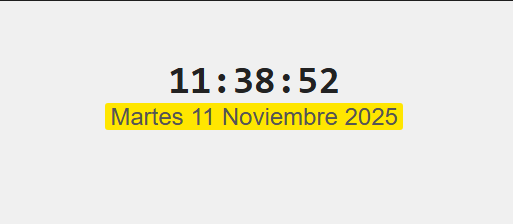
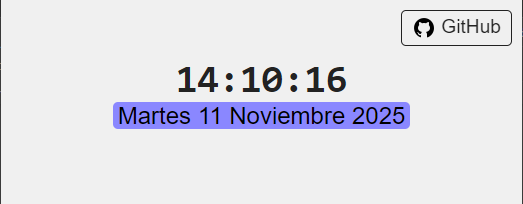
Mejorar el estilo y la estructura del CSS y actualizar el HTML para incluir un logotipo de GitHub con texto.

Changed region(s): [[0.1871, 0.2941, 0.8109, 0.6471], [0.0, 0.0, 1.0, 1.0]]

diff --git a/index.html b/index.html
@@ -1,21 +1,34 @@
 <!DOCTYPE html>
 <html lang="es">
+
 <head>
     <meta charset="UTF-8">
     <meta name="viewport" content="width=device-width, initial-scale=1.0">
     <title>Reloj y Fecha</title>
     <link rel="stylesheet" href="dateandclock.css">
 </head>
+
 <body>
+    <!-- Logo de GitHub + enlace a mi repositorio -->
+
+
+    <a class="github-link" href="https://github.com/LeoBringasAtLife/clock-and-date" target="_blank"
+        rel="noopener noreferrer">
+        <img class="img-github" src="https://img.icons8.com/material-outlined/24/000000/github.png"
+            alt="Logotipo de GitHub"> GitHub
+    </a>
+
     <div class="dateandclock-container">
         <div class="clock-display">
             <kbd id="clock">--:--:--</kbd>
         </div>
         <div class="date-display">
-            <mark id="date">Cargando...</mark>  
+            <mark id="date">Cargando...</mark>
         </div>
+        </a>
     </div>
 
     <script src="dateandclock.js"></script>
 </body>
+
 </html>

diff --git a/dateandclock.css b/dateandclock.css
@@ -1,8 +1,8 @@
 body {
-    font-family: Arial, sans-serif;
-    background-color: #f0f0f0;
-    margin: 0;
-    padding: 20px;
+  font-family: Arial, sans-serif;
+  background-color: #f0f0f0;
+  margin: 0;
+  padding: 20px;
 }
 
 .dateandclock-container {
@@ -19,12 +19,38 @@ body {
 
 #date {
   font-size: 1.5rem;
-  color: #555555;
+  color: #000;
 }
 
 .date-display mark {
-    background-color: #ffe600;
-    border-radius: 3px;
-    padding: 0 5px;
-    color: #222222;
+  background-color: #8a87ff;
+  border-radius: 5px;
+  padding: 0 5px;
+  color: #222222;
+}
+
+.github-link {
+  position: fixed;
+  top: 10px;
+  right: 10px;
+  text-decoration: none;
+  color: #222222;
+  font-size: 1.2em;
+  border: 1px solid #222222;
+  border-radius: 5px;
+  padding: 5px 10px;
+}
+
+.github-link:hover {
+  background-color: #222222;
+  color: #ffffff;
+}
+
+.img-github {
+  vertical-align: middle;
+  filter: invert(0);
+}
+
+.github-link:hover .img-github {
+  filter: invert(1);
 }
